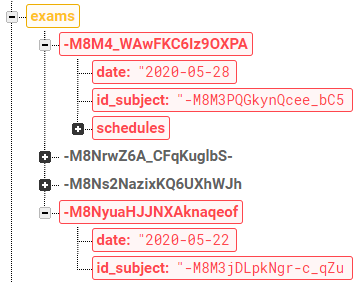
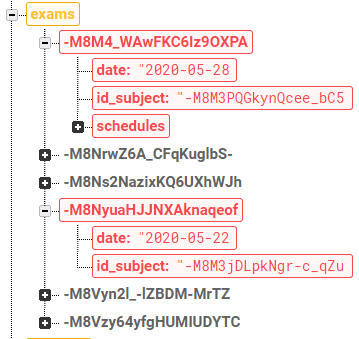
Updated docs

Changed region(s): [[0.0, 0.0, 1.0, 1.0]]

diff --git a/docs/tests/test_holidays.md b/docs/tests/test_holidays.md
@@ -26,7 +26,7 @@ Añadir vacaciones
 Añadir unas vacaciones con los datos:
 <pre>
 endDate: '2020-05-28'
-name: 'Vacaciones'
+name: 'Holidays Added'
 startDate: '2020-05-19'
 </pre>
 </td>
@@ -34,7 +34,7 @@ startDate: '2020-05-19'
 Aparecerá un nuevo nodo con los datos:
 <pre>
 endDate: '2020-05-28'
-name: 'Vacaciones'
+name: 'Holidays Added'
 startDate: '2020-05-19'
 </pre>
 Se eliminarán todas las faltas de asistencia entre esos días
@@ -96,15 +96,21 @@ Se eliminarán todas las faltas de asistencia entre esos días
 -M8M3rLvPTbNZnuxwl-I
 -M8M3tXZP7QIDjLZiVqj
 </pre>
-Se eliminarán todos los exámenes entre esos días
+Se eliminarán todos los exámenes entre esos días:
+<pre>
+-M8Vzy64yfgHUMIUDYTC
+</pre>
 </td>
 </tr>
 </table>
+
+<div style="page-break-after: always;"></div>
 
 |	Datos iniciales	|	Datos esperados	|	Test	|
 |:-:|:-:|:-:|
 |	![update_holidays_original](../assets/TESTING/holidays/update_holidays_original.png)	|	![update_holidays](../assets/TESTING/holidays/update_holidays.png)	|	✔	|
 |	![update_absences_original](../assets/TESTING/holidays/update_absences_original.png)	|	![update_absences](../assets/TESTING/holidays/update_absences.png)	|	✔	|
+|	![update_exams_original](../assets/TESTING/holidays/update_exams_original.png)	|	![update_exams](../assets/TESTING/holidays/update_exams.png)	|	✔	|
 
 <div style="page-break-after: always;"></div>
 
